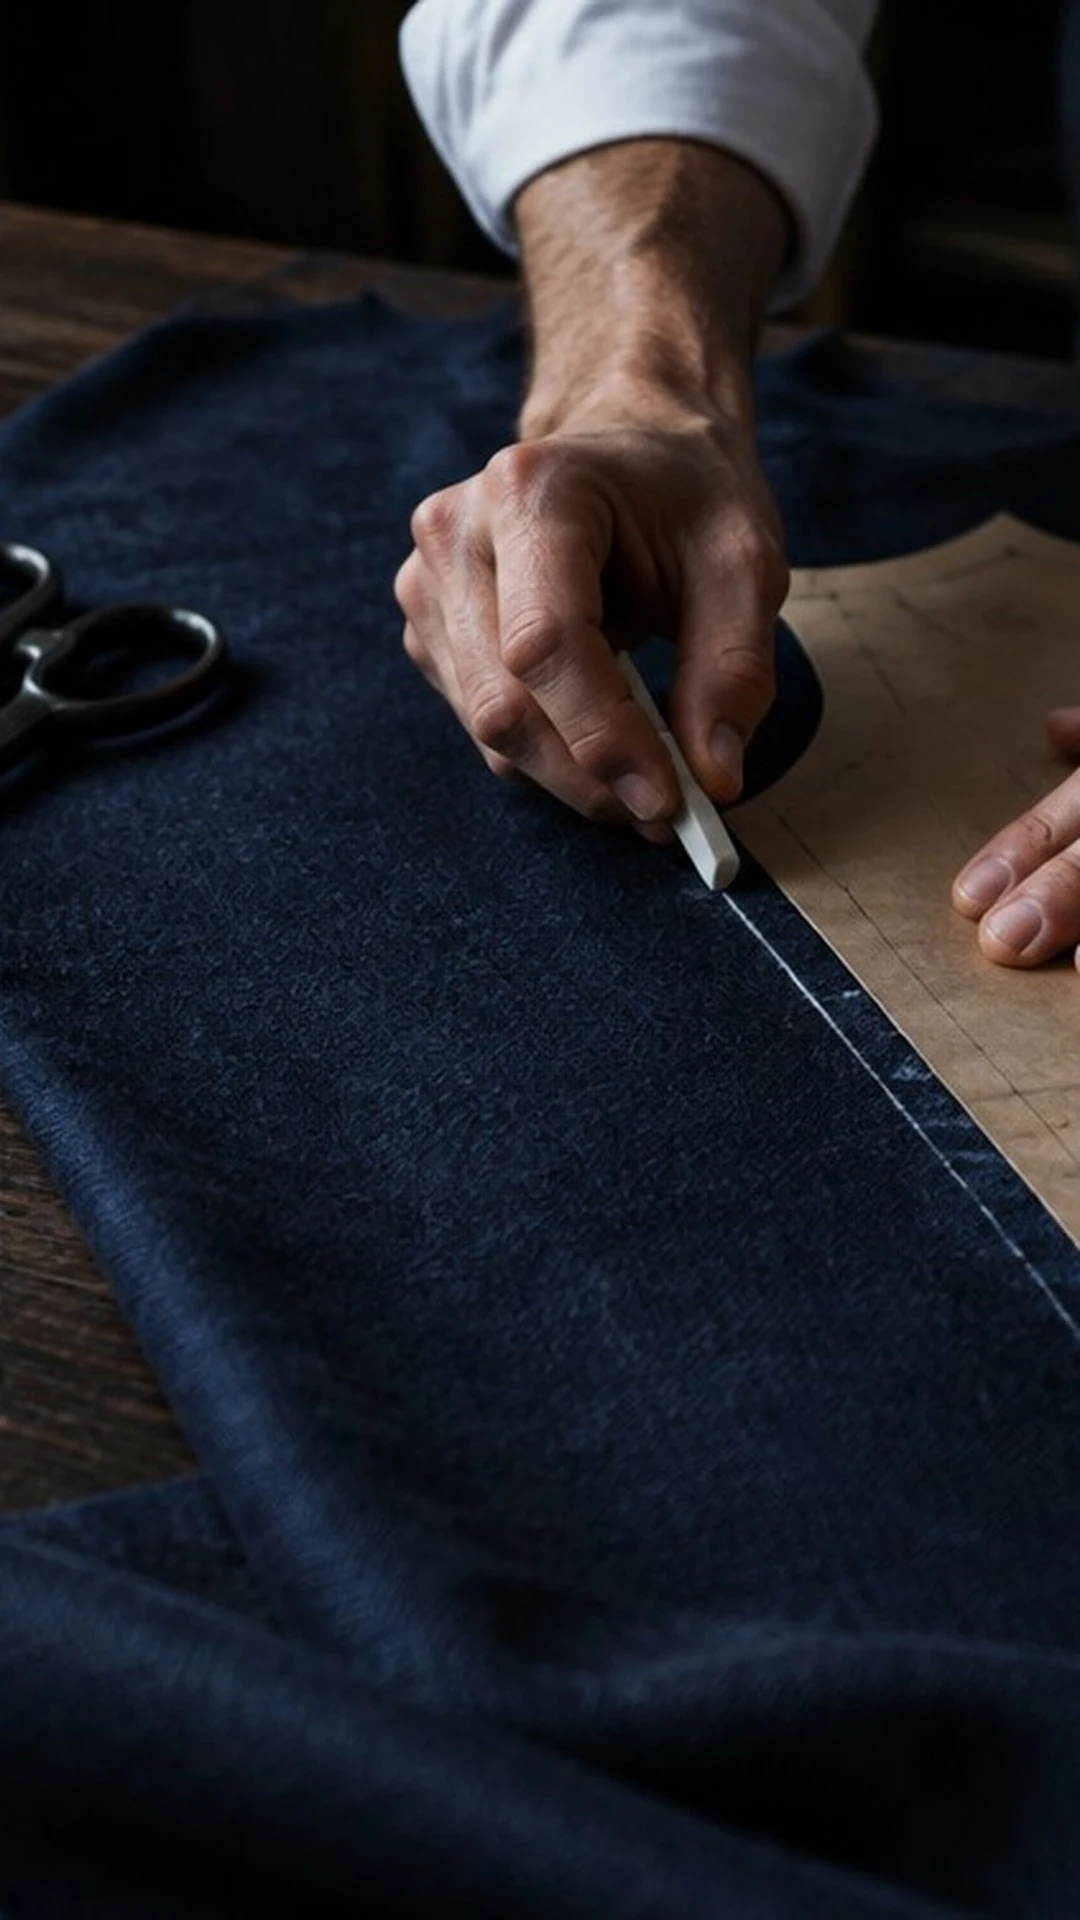
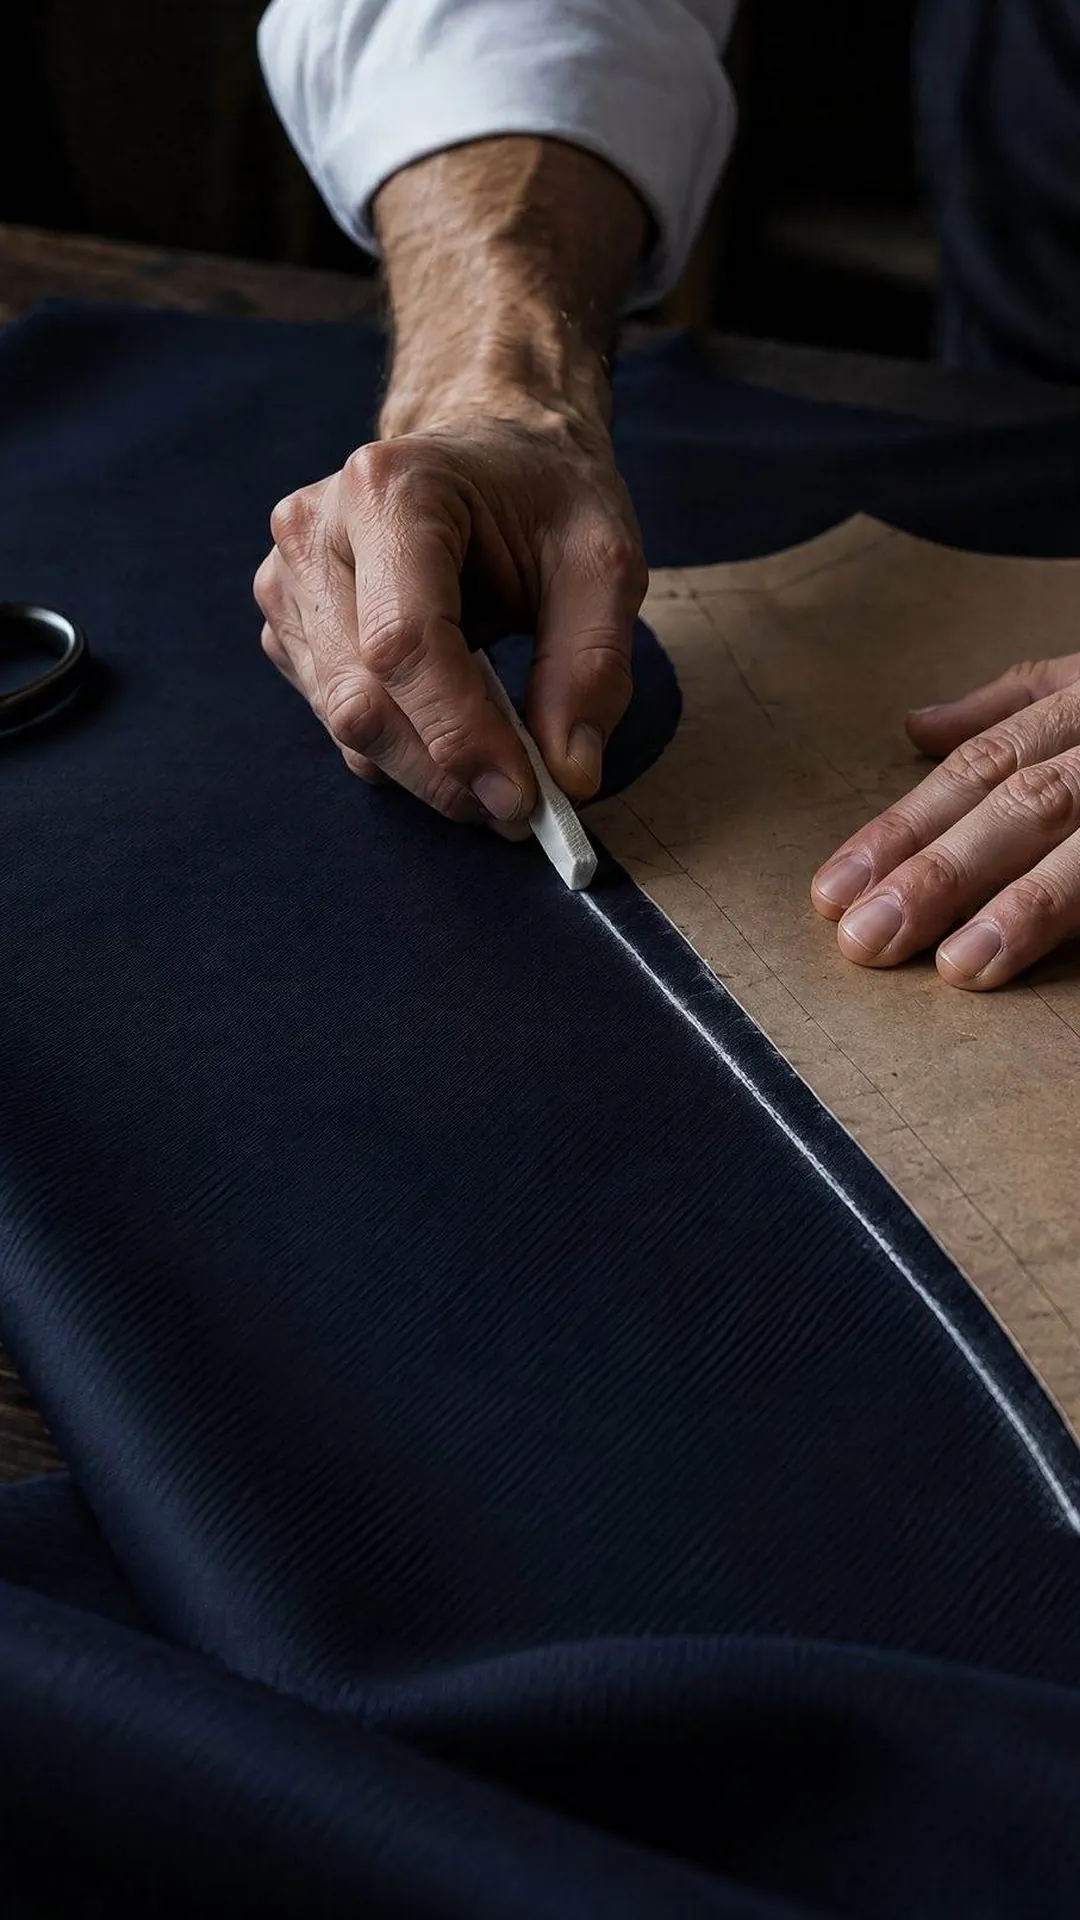
/work/ index: tiles from the new Basalt, Inlay, Ballast photos
The index backdrops still showed the old photos. They're rebuilt from
the approved heroes, cropped so the subject sits where the page shows
the tile, and cache-busted. Independently checked at phone, tablet and
desktop sizes.

Claude-Session: https://claude.ai/code/session_01LimQp9A32jopGDVLoZwNJe

diff --git a/public/work/index.html b/public/work/index.html
@@ -30,9 +30,9 @@
 <main>
   <section class="work" id="work" aria-labelledby="work-h">
     <div class="photos" aria-hidden="true">
-      <img data-for="basalt" src="/model/idx/basalt-1080.webp" alt="" decoding="async">
-      <img data-for="inlay" src="/model/idx/inlay-1080.webp" alt="" decoding="async">
-      <img data-for="ballast" src="/model/idx/ballast-1080.webp" alt="" decoding="async">
+      <img data-for="basalt" src="/model/idx/basalt-1080.webp?v=2026102902" alt="" decoding="async">
+      <img data-for="inlay" src="/model/idx/inlay-1080.webp?v=2026102901" alt="" decoding="async">
+      <img data-for="ballast" src="/model/idx/ballast-1080.webp?v=2026102902" alt="" decoding="async">
       <img data-for="longhand" src="/model/idx/longhand-1080.webp" alt="" decoding="async">
       <img data-for="neap" src="/model/idx/lowtide-1080.webp" alt="" decoding="async">
       <img data-for="hvac" src="/work/hvac/img/idx-1080.webp" alt="" decoding="async">
